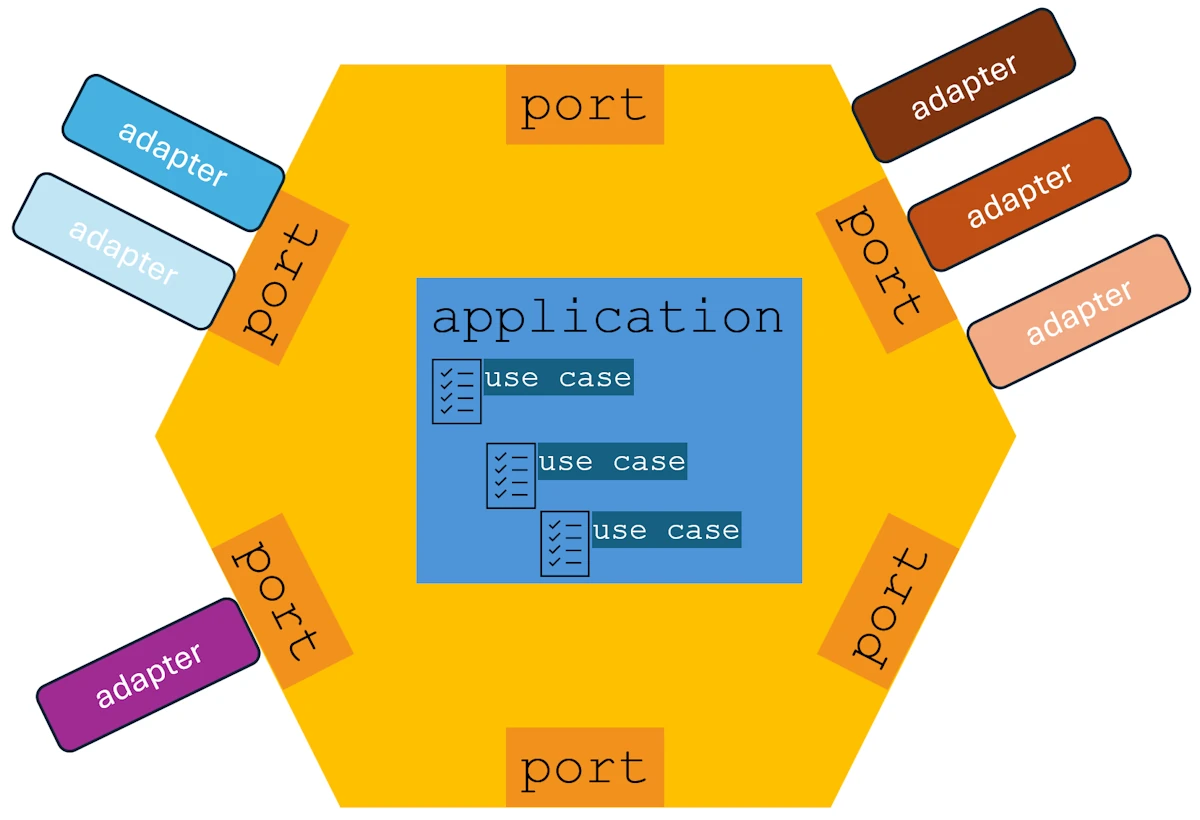
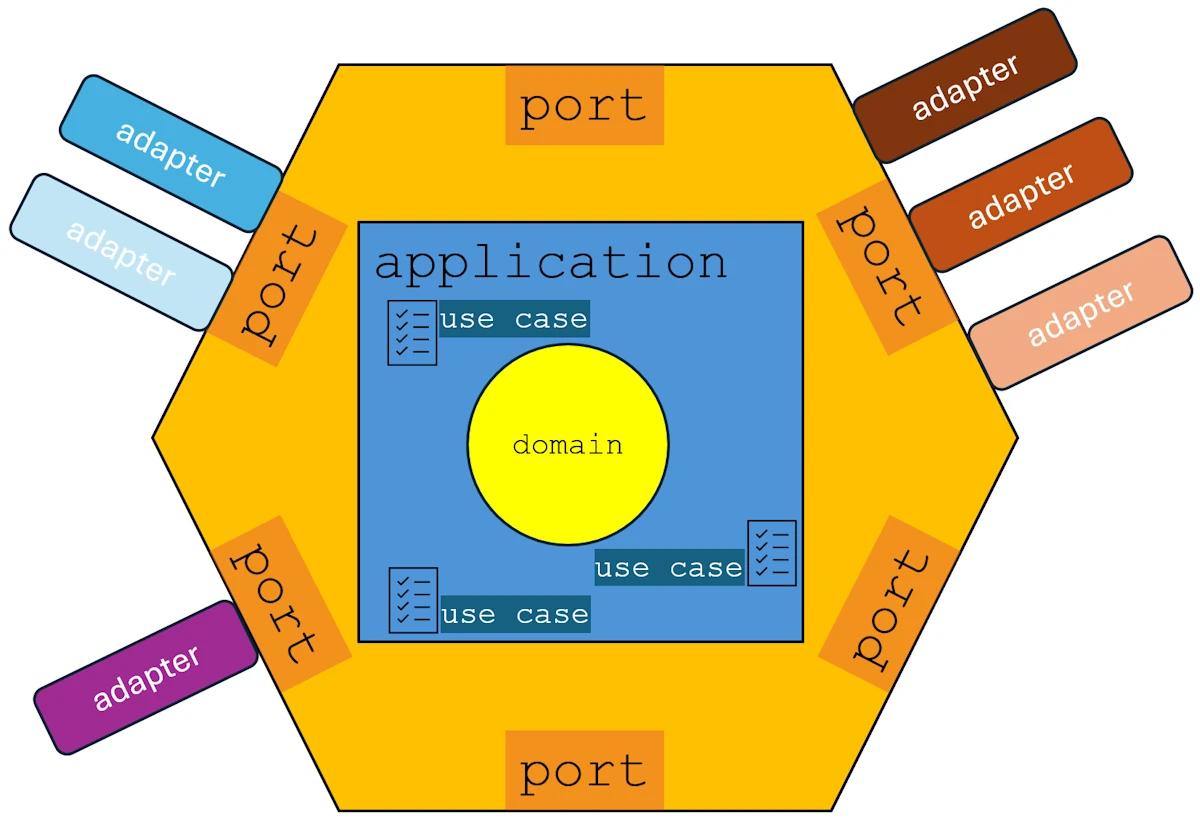
Fix hexagon + begining of the intro

diff --git a/docs/06_programmation/rust/024_hexagonal/hexagonal_lite.md b/docs/06_programmation/rust/024_hexagonal/hexagonal_lite.md
@@ -2,8 +2,8 @@
 published: true
 lang: en-US
 layout: default
-title: "Hexagonal Architecture in Rust from the Ground Up"
-description: "A gentle introduction with working examples."
+title: "Hexagonal Architecture in Rust: A Beginner’s Guide"
+description: "Learn how to structure your Rust code with ports, adapters, and clean separation of concerns using practical examples."
 parent: "Rust"
 nav_order: 33
 date:               2026-01-24 15:00:00
@@ -11,10 +11,10 @@ last_modified_date: 2026-01-25 17:00:00
 ---
 
 
-# Hexagonal Architecture in Rust from the Ground Up
+# Hexagonal Architecture in Rust: A Beginner’s Guide
 {: .no_toc }
 
-A gentle introduction with working examples.
+Learn how to structure your Rust code with ports, adapters, and clean separation of concerns using practical examples.
 {: .lead }
 
 
@@ -42,6 +42,8 @@ A gentle introduction with working examples.
 * `application` borrows adapters
 * The caller decides which `adapter` to plug in
 * `application` is **NOT** a container for `adapters`, but a consumer of `ports`.
+* `application` orchestrates the **use case**, `ports` define the contracts and `adapters` plug concrete behavior into those contracts
+
 
 All the [examples](https://github.com/40tude/hexagonal_lite) are GitHub
 
@@ -92,7 +94,9 @@ The [companion project](https://github.com/40tude/coroutines_and_friends) with a
 <!-- ###################################################################### -->
 
 ## Introduction
-Don't ask me why but our company wants to develop its own Orders Management System. We had a first meeting with the board: CFO, COO, CEO... They speak "business" they have their own vocabulary, rules, invariants... To tell the truth, they don't care if they receive orders via email or by owl. They don't care if orders are tracked in a database or on papyrus... They want to process orders as fast as possible, ship products in a matter of minutes and send the invoices within the same second.
+Just to make sure you did'nt reach this page in order to learn how to draw an hexagon on screen with Rust... Hexagonal Architecture is a way to structure an application around its use cases rather than its technical details. In this article, we explore how the application layer acts as an orchestrator, coordinating work without owning the implementation. Don’t worry about the fancy terminology: hexagons, architecture, ports, adapters, business rules. At the end of the day, this all boils down to writing traits, implementing structs, and defining a few enums.
+
+This said... Don't ask me why but our company wants to develop its own Orders Management System. We had a first meeting with the board: CFO, COO, CEO... They speak "business" they have their own vocabulary, rules, invariants... To tell the truth, they don't care if they receive orders via email or by owl. They don't care if orders are tracked in a database or on papyrus... They want to process orders as fast as possible, ship products in a matter of minutes and send the invoices within the same second.
 
 If we must write an application for these guys one of the idea is to decouple the business from the external concerns like user interfaces, databases... What  "Uncle Bob's" call the "details" in the book [Clean Architecture](https://www.amazon.fr/dp/0134494164).
 
@@ -448,7 +452,7 @@ So, first thing first, at the top of the `tests` module we start by creating our
 
 When this is done, we can write the test `process_order_successfully()` test function, where, as before in the `main()` function, we create a new `OrderService` based on the data type `TestNotifier` which implements the trait `OrderNotifier`. Then we call `.process_order()` and check the results.
 
-Now, it should be clear that in an Hexagonal Architecture the `application` never knows whether it’s being used by a CLI, a web server, a test... The caller decides which adapter to plug in.
+By now, it should be clear that in an Hexagonal Architecture the `application` never knows whether it’s being used by a CLI, a web server, a test... The caller decides which adapter to plug in.
 
 Finally, let's realize that tests are not special. They are just another driving adapter.
 
@@ -549,7 +553,7 @@ impl<'a, N: OrderNotifier> OrderService<'a, N> {
     // Same as before
 }
 ```
-Last change occurs in `main()` we transition from :
+The last change occurs in `main()` where we transition from:
 
 ```rust
 fn main() {
@@ -597,7 +601,7 @@ In a typical hexagonal architecture
 1. it is OK to have more than one adapter to the same port.
 1. adding a new adapter to an existing port does not require any changes to the `domain`, `ports`, or `application` modules.
 
-In VSCode if you compare `ex03.rs` and `ex04.rs` you will realize that
+In VSCode if you compare `ex03.rs` and `ex04.rs` you should realize that:
 * the `domain` module remains untouched
 * `ports` is not modified
 * `application` is not modified either
@@ -606,7 +610,7 @@ You should see something like this:
 
 <div align="center">
 <img src="./assets/img04.webp" alt="" width="900" loading="lazy"/><br/>
-<!-- <span>Optional comment</span> -->
+<span><code>domain</code>, <code>ports</code> and <code>application</code> modules remain untouched when adding a new adapter.</span>
 </div>
 
 Obviously we must add a new adapter in the `adapters` module. This is done by adding `use std::cell::RefCell;` at the top of the module plus the lines below:
@@ -651,7 +655,7 @@ for message in memory_notifier.messages() {
 }
 ```
 
-That's all. But does it works? Let's test the 2 adapters on the same port.
+That's all. But does it works? Let's test how the 2 adapters work on the same port.
 
 ```powershell
 cargo run --example ex04
@@ -679,18 +683,18 @@ Expected output:
 ## Tea Time! Let's take a break
 
 <div align="center">
-<img src="./assets/img08.webp" alt="" width="450" loading="lazy"/><br/>
+<img src="./assets/img08.webp" alt="" width="225" loading="lazy"/><br/>
 <!-- <span>Optional comment</span> -->
 </div>
 
-Let's step back for a while in order to internalize the shape of the architecture, forget the details and avoid to be distracted by the behaviors. At this point I want to make sure we remember that:
-* domain contains the entities of the business
-* ports = traits, they are stable contracts
-* adapters = implementation, they are placeholders
-* application borrows adapters
+Let's step back for a while in order to internalize the shape of the Hexagonal Architecture, forget the details and avoid to be distracted by the behaviors. At this point I want to make sure we remember that:
+* `domain` contains the entities of the business
+* **ports = traits**, they are stable contracts
+* **adapters = implementation**, they are placeholders
+* `application` borrows adapters
 * tests show how the system is driven
 
-Now *read* the template below:
+Now let's *read* the "template" below:
 
 ```rust
 mod domain {
@@ -840,7 +844,7 @@ pub trait OrderRepository {
 }
 ```
 
-Now in the `adapters` module we define a new concrete adapter named `InMemoryOrderRepository`. Once this is done we implement the trait `OrderRepository` on it.
+In the `adapters` module we define a new concrete adapter named `InMemoryOrderRepository`. Once this is done we implement the trait `OrderRepository` on it.
 
 ```rust
 pub struct InMemoryOrderRepository {
@@ -907,7 +911,7 @@ However we can say that the `application`:
 * owns the **use case**
 * orchestrates the workflow
 
-* The `application`:
+The `application`:
 * calls the **repository port** to persist data
 * calls the **notifier port** to emit a side effect
 
@@ -923,9 +927,7 @@ let notifier = ConsoleNotifier;
 
 let mut service = OrderService::new(&mut repo, &notifier);
 ```
-Pay attention, both arguments are references but `&mut repo` is a mutable reference because `repo` will be modified.
-
-
+Pay attention, both arguments are references but `&mut repo` is a mutable reference because... No, you don't win a million but yes, `repo` will be modified.
 
 
 If we step back, we should be able to see that:
@@ -934,12 +936,12 @@ If we step back, we should be able to see that:
 * `adapters` define **how it actually happens**
 * `main()` decides **which adapters are used**
 
-IOW, the `application` orchestrates the **use case**, `ports` define the contracts and `adapters` plug concrete behavior into those contracts.
+In other words, the `application` orchestrates the **use case**, `ports` define the contracts and `adapters` plug concrete behavior into those contracts.
 
 
-One key to understand the Hexagonal Architecture and how the previous sample code works is to see the `application` as an orchestrator which unroll the steps of some **use case**, asking for things to be done but which is not able (nor willing to) to do those things by itself. Indeed **that knowledge, this knowhow lives outside the application**. Hence the hexagon metaphor.
+May be, one key to understand Hexagonal Architecture, as well as the behavior of the preceding sample code, is to consider the `application` as an orchestrator. It drives the execution of a **use case** by coordinating its steps, issuing requests for actions without implementing them directly. **The knowledge and technical know-how needed to fulfill those requests exist outside the application boundary**, which is exactly what the hexagonal model is meant to illustrate.
 
-The distinction is not between layers or milestones, no, the distinction is between **inside** and **outside**. The hexagon provide an image with 6 ports where more than one adapter can be plugged.
+The distinction is not between layers or milestones, no, the distinction is between **inside** and **outside**. The hexagon provides an image with 6 ports where more than one adapter can be plugged.
 
 <div align="center">
 <img src="./assets/img09.webp" alt="" width="900" loading="lazy"/><br/>
